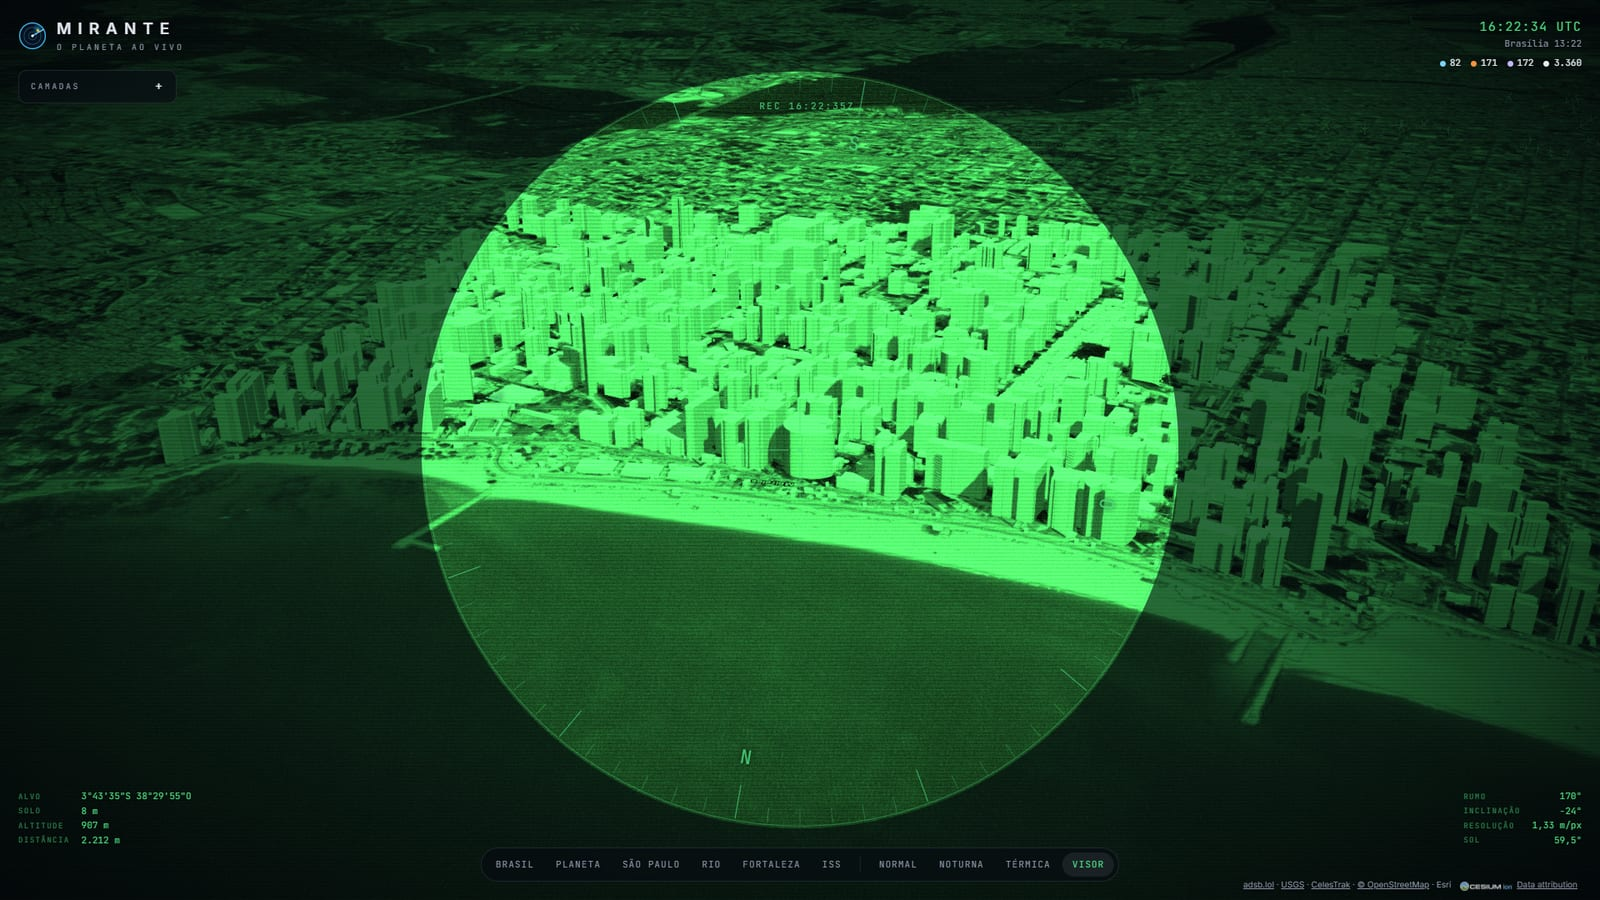
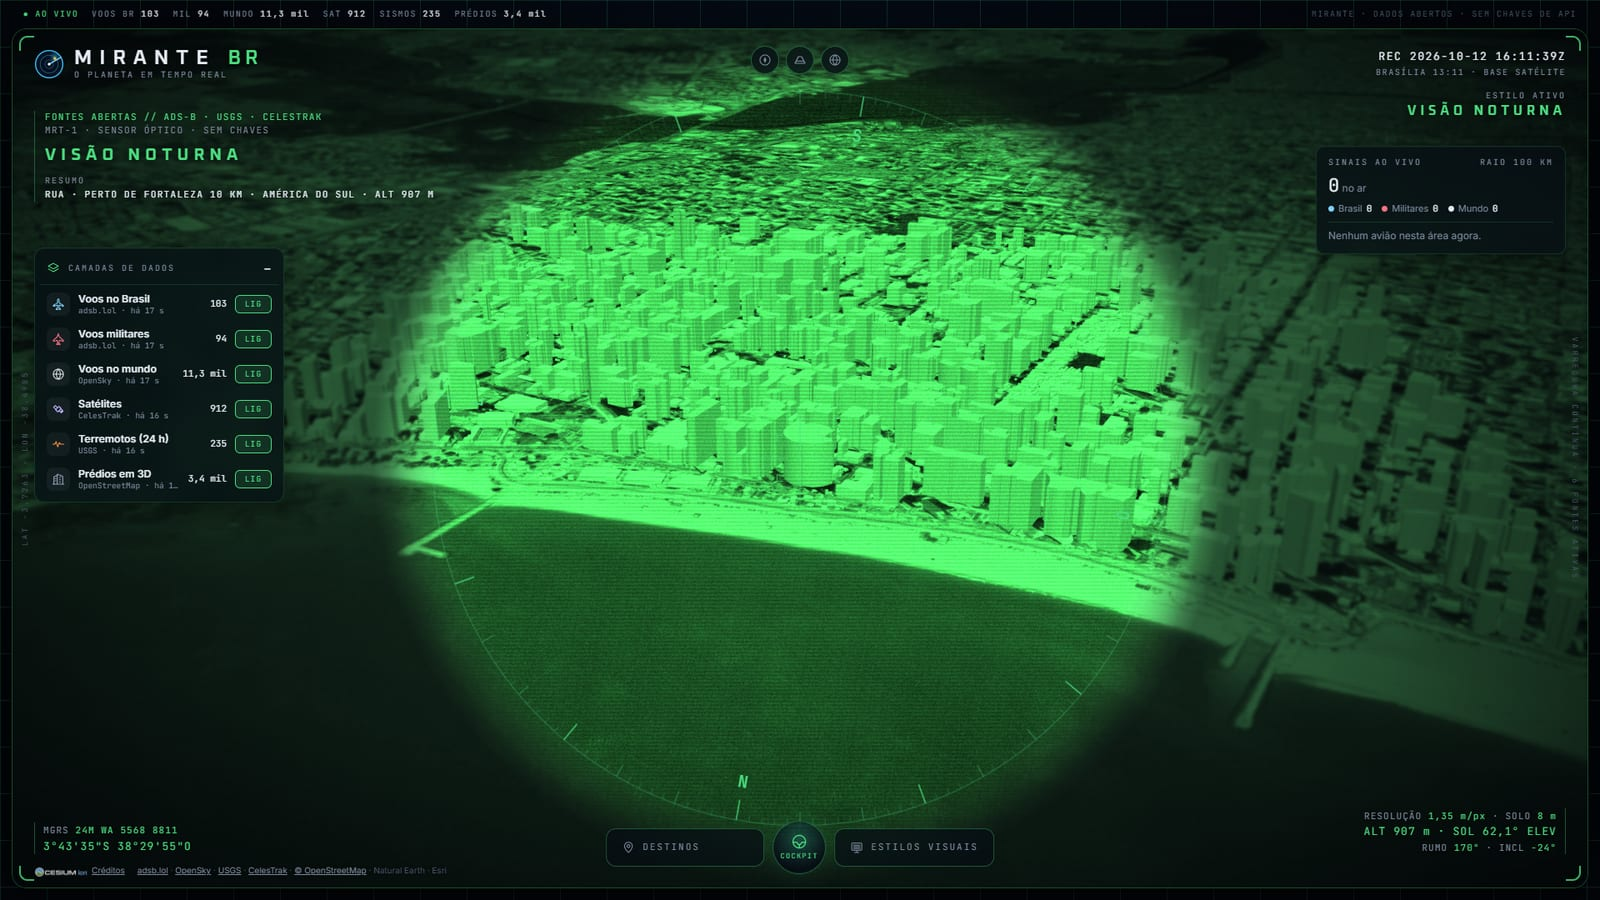
docs: refresh screenshots and document optional keys

diff --git a/README.md b/README.md
@@ -1,54 +1,56 @@
 # Mirante
 
-**O planeta ao vivo, só com dados abertos.** Um globo 3D no navegador, visto por um
-visor de satélite, com os aviões voando sobre o Brasil, os terremotos das últimas
-24 horas, os satélites em órbita e cidades brasileiras em 3D, com relevo real.
+**O planeta ao vivo, só com dados abertos.** Um globo 3D no navegador, visto por uma
+lente de satélite, com os aviões voando sobre o Brasil e o mundo, os terremotos das
+últimas 24 horas, quase mil satélites em órbita e cidades brasileiras em 3D sobre o
+relevo real.
 
-![Beira-Mar de Fortaleza em 3D pelo visor de satélite](docs/fortaleza.jpg)
+**🔗 Ao vivo: [mirante-rho.vercel.app](https://mirante-rho.vercel.app)**
+
+![Beira-Mar de Fortaleza em 3D pela lente do Mirante](docs/fortaleza.jpg)
 
 ## O que dá para fazer
 
-- 🏙 **Cidades em 3D**: Fortaleza (Beira-Mar), São Paulo (Paulista) e Rio
-  (Copacabana), com milhares de prédios do OpenStreetMap erguidos na altura
-  certa, sobre o relevo de verdade dos morros e serras.
-- 🛰 **Visor de satélite**: bússola que gira com a câmera, mira e telemetria ao vivo
-  do ponto observado: coordenadas, altitude do solo, distância, resolução em
-  metros por pixel e a elevação do Sol naquele lugar e horário.
 - ✈ **Voos ao vivo**: os do Brasil com modelo e matrícula, os militares do mundo
-  inteiro e cerca de 6 mil aviões em todos os continentes. Entre uma atualização e
-  outra cada avião segue andando no mapa, calculado pela velocidade e pelo rumo.
-- 📡 **Voos ao redor**: painel com quantos aviões há na área que você está vendo
-  (o raio acompanha o zoom) e a lista dos mais próximos; um clique leva até o avião.
-- 🧑✈ **Cockpit**: embarque num avião ao vivo e veja em primeira pessoa, com fita de
-  rumo, velocidade, altitude, razão de subida e a lista dos aviões ao redor. Dá para
-  pular de um avião para outro e olhar em volta com as setas do teclado.
-- 🌋 **Terremotos das últimas 24 h** no mundo todo, com tamanho e cor pela magnitude
-  e uma onda animada nos mais fortes.
-- 🚀 **Satélites e estações espaciais**: as órbitas são calculadas no próprio navegador
-  (modelo SGP4). Dá para seguir a ISS e ver a próxima volta dela ao redor da Terra.
-- 🎥 **Modos de visão** feitos com shaders: visão noturna e câmera térmica.
-- 🖱 Clique em qualquer avião, terremoto ou satélite para abrir uma ficha com os detalhes.
+  inteiro e milhares de aviões em todos os continentes. Entre uma atualização e outra
+  cada avião segue andando, calculado pela velocidade e pelo rumo.
+- 🧑✈ **Cockpit**: embarque em qualquer avião ao vivo e veja em primeira pessoa, com fita
+  de rumo, velocidade, altitude, razão de subida e os aviões ao redor. Dá para pular de
+  um avião para outro e olhar em volta com as setas do teclado.
+- 🏙 **Cidades em 3D**: Fortaleza (Beira-Mar), São Paulo (Paulista) e Rio (Copacabana),
+  com milhares de prédios do OpenStreetMap na altura certa, sobre os morros de verdade.
+- 🛰 **Satélites**: estações espaciais, GPS/Galileo/GLONASS/BeiDou, meteorológicos e o
+  anel geoestacionário, com órbitas calculadas no navegador (SGP4). Dá para seguir a ISS
+  e ver a próxima volta dela ao redor da Terra.
+- 🌋 **Terremotos das últimas 24 h** no mundo todo, com uma onda animada nos mais fortes.
+- 🎯 **Lente e HUD**: bússola que gira com a câmera, coordenadas MGRS, resolução em metros
+  por pixel, elevação do Sol no ponto observado e um resumo do que está na lente
+  ("PERTO DE FORTALEZA 10 KM · AMÉRICA DO SUL").
+- 📡 **Sinais ao vivo**: quantos aviões há na área que você está vendo e os mais próximos.
+- 🎥 **Estilos visuais** feitos com shaders: CRT, visão noturna, câmera térmica e noir.
+- 🗺 **Bases de mapa**: satélite, tático (escurecido), ruas (OpenStreetMap) e, com uma
+  chave do Google, cidades fotorrealistas em 3D no mundo inteiro.
 - 🇧🇷 Tudo em português, inclusive os nomes no mapa.
 
-![Cockpit de um Boeing 737 a 22 mil pés, com os aviões ao redor](docs/cockpit.jpg)
+![Cockpit de um avião ao vivo sobre São Paulo](docs/cockpit.jpg)
 
-| Copacabana com os morros | Avenida Paulista | Visão noturna |
+| Copacabana e os estilos visuais | Voos sobre o Brasil | Modo CRT |
 | --- | --- | --- |
-| ![Copacabana](docs/copacabana.jpg) | ![Paulista](docs/paulista.jpg) | ![Fortaleza em visão noturna](docs/fortaleza-noturna.jpg) |
+| ![Copacabana](docs/copacabana.jpg) | ![Brasil](docs/brasil.jpg) | ![Copacabana em modo CRT](docs/crt.jpg) |
 
-| Câmera térmica | Voos sobre o Brasil | Seguindo a ISS |
-| --- | --- | --- |
-| ![Paulista em modo térmico](docs/paulista-termica.jpg) | ![Brasil](docs/brasil.jpg) | ![ISS](docs/iss.jpg) |
+| Visão noturna | Seguindo a ISS |
+| --- | --- |
+| ![Fortaleza em visão noturna](docs/fortaleza-noturna.jpg) | ![ISS](docs/iss.jpg) |
 
 ## Stack
 
-React 19 + TypeScript, Vite, [CesiumJS](https://cesium.com/platform/cesiumjs/) para o globo e
-[satellite.js](https://github.com/shashwatak/satellite-js) para as órbitas. Testes com Vitest e
-CI no GitHub Actions. Nenhuma chave de API.
+React 19 + TypeScript, Vite, [CesiumJS](https://cesium.com/platform/cesiumjs/) para o globo,
+[satellite.js](https://github.com/shashwatak/satellite-js) para as órbitas e funções
+serverless na Vercel. Testes com Vitest e CI no GitHub Actions.
 
 ## Como rodar
 
-Precisa do [Node.js](https://nodejs.org) 22 ou mais novo.
+Precisa do [Node.js](https://nodejs.org) 22 ou mais novo. Funciona sem nenhuma chave.
 
 ```bash
 git clone https://github.com/PauloMatiasxvs/mirante.git
@@ -61,11 +63,22 @@ Depois abra <http://localhost:5180>.
 
 | Comando | O que faz |
 | --- | --- |
-| `npm run dev` | servidor de desenvolvimento (já inclui a rota `/api/flights`) |
+| `npm run dev` | servidor de desenvolvimento (já inclui as rotas `/api/*`) |
 | `npm run build` | checa os tipos e gera a versão de produção em `dist/` |
+| `npm run preview` | serve a versão de produção localmente |
 | `npm test` | roda os testes |
 | `npm run data:buildings` | baixa de novo os prédios das cidades (OpenStreetMap) |
 | `npm run data:basemap` | gera de novo os nomes e fronteiras (Natural Earth) |
+
+### Configuração opcional
+
+| Variável | Para quê | Onde |
+| --- | --- | --- |
+| `VITE_GOOGLE_MAPS_API_KEY` | Base "Fotorrealista": cidades em 3D do Google no mundo todo | Chave do Map Tiles API no Google Cloud. Ela vai para o navegador, então **restrinja ao domínio do site** |
+| `OPENSKY_CLIENT_ID` e `OPENSKY_CLIENT_SECRET` | Voos do mundo no site publicado (a OpenSky bloqueia acesso anônimo vindo de servidores na nuvem) | Conta gratuita em opensky-network.org. Ficam só no servidor |
+
+Localmente, coloque-as num arquivo `.env.local`; na Vercel, em *Settings → Environment
+Variables*.
 
 ## Arquitetura
 
@@ -75,46 +88,47 @@ pequeno, e os componentes React só leem esse estado (via `useSyncExternalStore`
 ações do motor.
 
 ```
-api/                    funções serverless: voos do Brasil, militares e do mundo (as APIs não liberam CORS)
+api/                    funções serverless com cache: voos (Brasil, militares, mundo) e satélites
 src/
   map/
-    engine.ts           cria o viewer, luz, sombras, camadas; expõe ações e o store
+    engine.ts           cria o viewer, luz, brilho, camadas; expõe ações e o store
     layers/             uma camada por fonte: voos, terremotos, satélites, prédios
     cockpit.ts          câmera em primeira pessoa num avião ao vivo
-    telemetry.ts        o que a câmera está vendo (para o visor)
+    telemetry.ts        o que a câmera está vendo (para a lente e o HUD)
+    mapStyles.ts        bases de mapa (satélite, tático, ruas, fotorrealista)
     basemap.ts          nomes em português e fronteiras
-    visionModes.ts      shaders de visão noturna e térmica
-  components/           interface: barra, gaveta de camadas, ficha, visor, HUD do cockpit
+    visionModes.ts      shaders CRT, visão noturna, térmica e noir
+  components/           HUD: cabeçalho, camadas, sinais ao vivo, ficha, lente, barra, cockpit
   hooks/                ponte entre o store do motor e o React
-  lib/                  funções puras (geografia, formatação, tradução) e seus testes
+  lib/                  funções puras (geografia, MGRS, formatação, tradução) e seus testes
   data/cities.json      cidades em 3D: área dos prédios e ângulo de câmera
 public/data/            prédios, nomes e fronteiras já processados
 scripts/                geram os arquivos de public/data
 ```
 
+Milhares de aviões e quase mil satélites são desenhados como primitivas simples,
+atualizadas em intervalos fixos, em vez de entidades interpoladas a cada quadro. Só as
+estações espaciais e os voos do Brasil, que precisam de movimento suave, são entidades.
+
 Para incluir outra cidade em 3D, adicione-a em `src/data/cities.json`, rode
 `npm run data:buildings -- <id-da-cidade>` e crie o botão em `src/components/Dock.tsx`.
-
-### Publicar na Vercel
-
-Importe o repositório na [Vercel](https://vercel.com): ela detecta o Vite, publica o `dist/`
-e transforma `api/flights.ts` numa função serverless.
 
 ## Fontes de dados
 
 | Dado | Fonte | Observação |
 | --- | --- | --- |
 | Voos no Brasil e militares | [adsb.lol](https://adsb.lol) | Rede comunitária de receptores ADS-B, dados sob ODbL |
-| Voos no mundo | [OpenSky Network](https://opensky-network.org) | Acesso anônimo; o servidor atualiza o retrato a cada 15 min |
+| Voos no mundo | [OpenSky Network](https://opensky-network.org) | O servidor atualiza o retrato a cada 15 min |
 | Terremotos | [USGS](https://earthquake.usgs.gov/earthquakes/feed/) | Feed público do Serviço Geológico dos EUA |
-| Órbitas | [CelesTrak](https://celestrak.org) | Elementos orbitais (TLE), guardados em cache por 2 h |
+| Órbitas | [CelesTrak](https://celestrak.org) | Elementos orbitais (TLE), em cache por 2 h no servidor |
 | Prédios | [OpenStreetMap](https://www.openstreetmap.org/copyright) | © colaboradores do OpenStreetMap, sob ODbL |
 | Imagens | [Esri World Imagery](https://www.arcgis.com/home/item.html?id=10df2279f9684e4a9f6a7f08febac2a9) | Imagens de satélite com atribuição |
-| Nomes e fronteiras | [Natural Earth](https://www.naturalearthdata.com) | Domínio público; nomes de países, cidades e mares em português |
+| Ruas | [OpenStreetMap](https://www.openstreetmap.org/copyright) | Tiles padrão do OSM |
+| Nomes e fronteiras | [Natural Earth](https://www.naturalearthdata.com) | Domínio público; nomes em português |
 | Relevo | [Esri World Elevation 3D](https://www.arcgis.com/home/item.html?id=7029fb60158543ad845c7e1527af11e4) | Modelo de elevação global |
 
-A cobertura de voos depende dos receptores voluntários de cada região: é maior no
-Sudeste, em Brasília e em Fortaleza.
+A cobertura de voos depende dos receptores voluntários de cada região: no Brasil é maior
+no Sudeste, em Brasília e em Fortaleza.
 
 ## Licença
 
